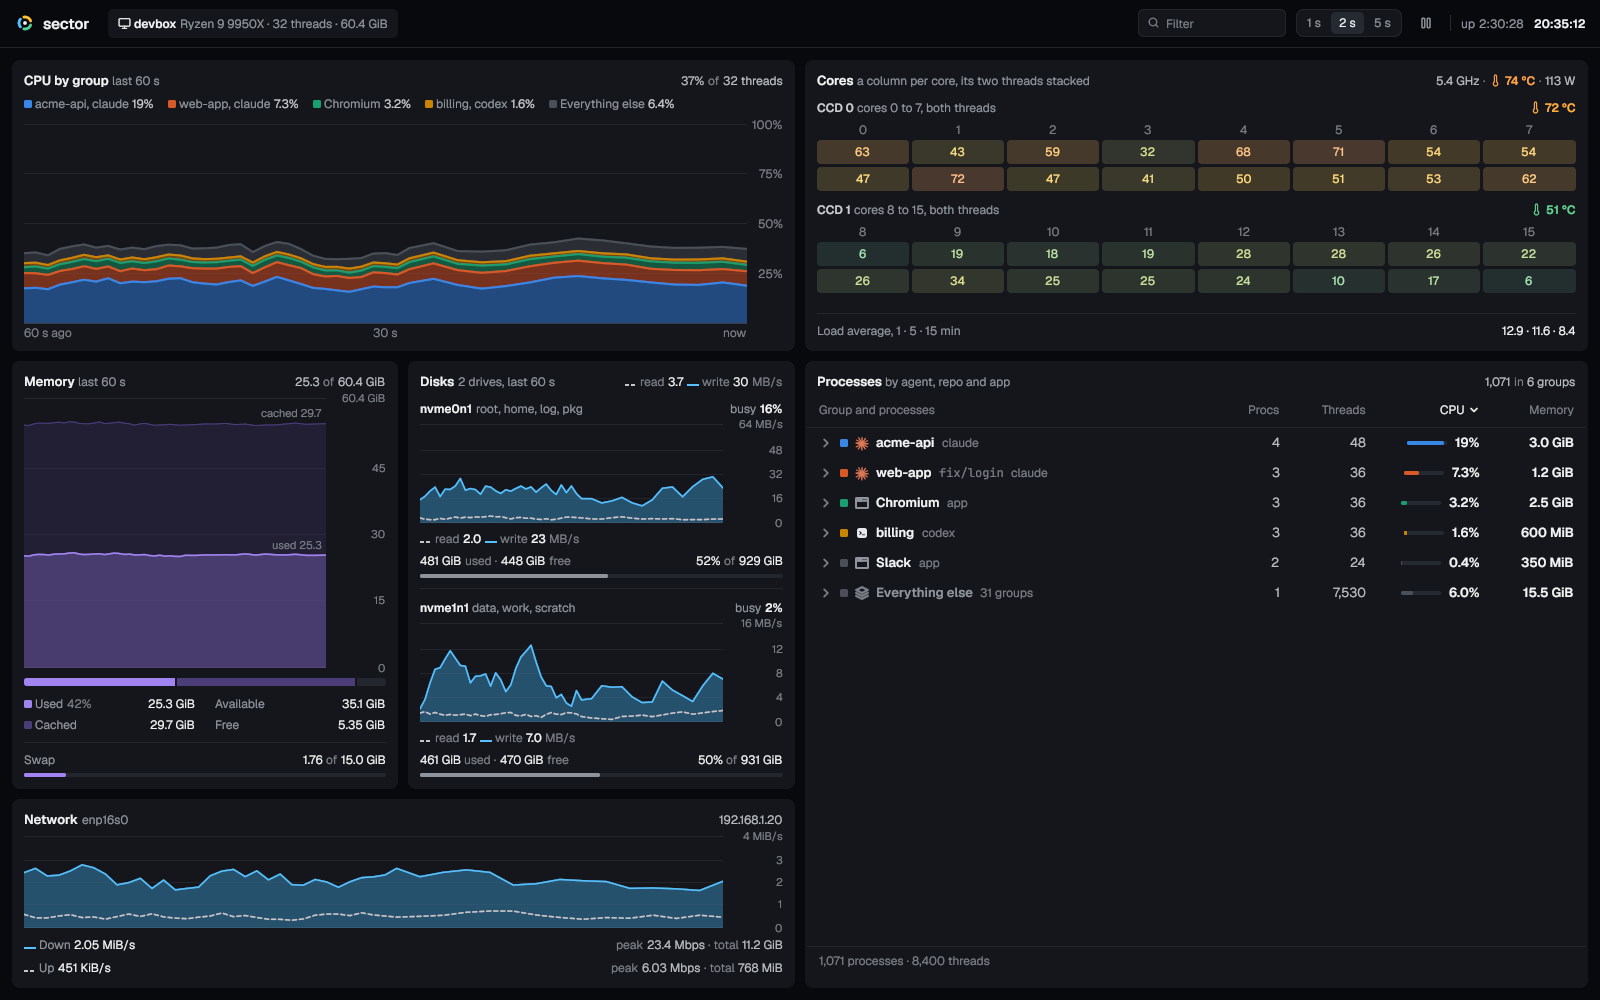
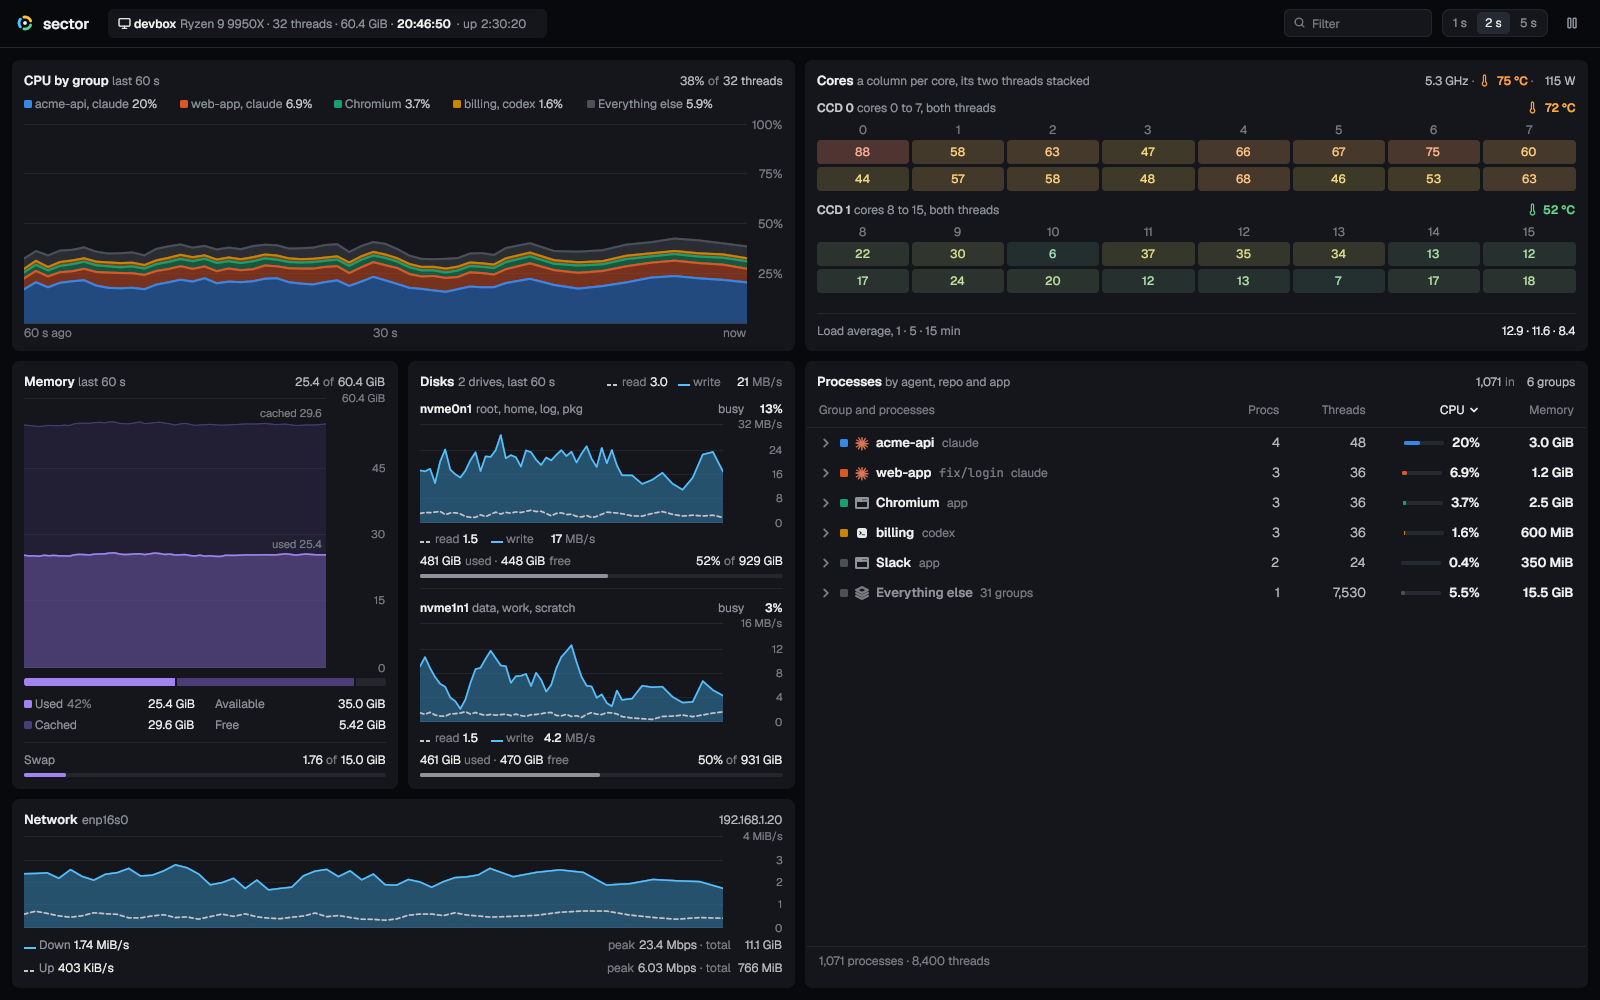
Keep ticking values from pushing the title bar and headers around
The clock and uptime sat in the top-right corner, and their width changed
every second, so the pause, interval and filter controls beside them
shifted. They now ride in the host chip, the uptime last so a growing day
count lands in the chip's padding. A span can take a slot, a template of
its widest form measured with each digit set to the widest digit, since
Geist's digits differ in width. Values that sit mid-row in a header take
one, so a change in their width moves nothing next to them. The README
screenshot shows the new title bar.

diff --git a/view/titlebar.go b/view/titlebar.go
@@ -4,6 +4,7 @@ import (
 	"fmt"
 	"image"
 	"image/color"
+	"strings"
 	"time"
 
 	"gioui.org/font"
@@ -16,8 +17,8 @@ import (
 	"github.com/quanticstudios/sector/theme"
 )
 
-// titleBar draws the mark, the host chip and the tools: filter, interval,
-// pause, uptime and clock. It returns its size.
+// titleBar draws the mark, the host chip with the clock and uptime, and the
+// tools: filter, interval and pause. It returns its size.
 func (v *View) titleBar(gtx layout.Context, now time.Time) layout.Dimensions {
 	th := v.th
 	for i := range v.seg {
@@ -43,6 +44,10 @@ func (v *View) titleBar(gtx layout.Context, now time.Time) layout.Dimensions {
 	if host.Model == "" {
 		detail = ""
 	}
+	up := host.Uptime
+	if !v.last.Time.IsZero() && up > 0 {
+		up += now.Sub(v.last.Time)
+	}
 	sp := layout.Spacer{Width: 10}
 	children := []layout.FlexChild{
 		layout.Rigid(func(gtx layout.Context) layout.Dimensions {
@@ -58,7 +63,7 @@ func (v *View) titleBar(gtx layout.Context, now time.Time) layout.Dimensions {
 			if host.Name == "" {
 				return layout.Dimensions{}
 			}
-			return v.chip(gtx, host.Name, detail, roomy)
+			return v.chip(gtx, host.Name, detail, roomy, now, up)
 		}),
 		layout.Flexed(1, func(gtx layout.Context) layout.Dimensions { return layout.Dimensions{Size: gtx.Constraints.Min} }),
 		layout.Rigid(func(gtx layout.Context) layout.Dimensions {
@@ -73,25 +78,6 @@ func (v *View) titleBar(gtx layout.Context, now time.Time) layout.Dimensions {
 		children = append(children, layout.Rigid(sp.Layout), layout.Rigid(v.segmented))
 	}
 	children = append(children, layout.Rigid(sp.Layout), layout.Rigid(v.pauseButton))
-	if !tiny {
-		children = append(children, layout.Rigid(sp.Layout), layout.Rigid(func(gtx layout.Context) layout.Dimensions {
-			s := image.Pt(gtx.Dp(1), gtx.Dp(16))
-			rect(gtx, image.Rectangle{Max: s}, 0, cStrong)
-			return layout.Dimensions{Size: s}
-		}))
-	}
-	up := host.Uptime
-	if !v.last.Time.IsZero() && up > 0 {
-		up += now.Sub(v.last.Time)
-	}
-	children = append(children,
-		layout.Rigid(sp.Layout),
-		layout.Rigid(func(gtx layout.Context) layout.Dimensions {
-			return v.rich(gtx, theme.Size12, span{s: "up", c: th.Muted}, span{s: uptimeStr(up), c: th.Muted})
-		}),
-		layout.Rigid(sp.Layout),
-		layout.Rigid(v.text(theme.Size12, font.SemiBold, th.Fg, now.Format("15:04:05"))),
-	)
 	layout.W.Layout(gtx, func(gtx layout.Context) layout.Dimensions {
 		gtx.Constraints.Min = image.Pt(gtx.Constraints.Max.X, 0)
 		return layout.Flex{Alignment: layout.Middle}.Layout(gtx, children...)
@@ -99,8 +85,11 @@ func (v *View) titleBar(gtx layout.Context, now time.Time) layout.Dimensions {
 	return layout.Dimensions{Size: image.Pt(w, h)}
 }
 
-// chip is the host: monitor icon, name, and the CPU and memory when roomy.
-func (v *View) chip(gtx layout.Context, name, detail string, roomy bool) layout.Dimensions {
+// chip is the host: monitor icon, name, the CPU and memory when roomy, then
+// the clock and uptime. Those two tick, so each takes a slot as wide as its
+// widest form, and the uptime comes last, where the chip's padding absorbs
+// a day count growing.
+func (v *View) chip(gtx layout.Context, name, detail string, roomy bool, now time.Time, up time.Duration) layout.Dimensions {
 	th := v.th
 	return v.boxed(gtx, gtx.Dp(6), gtx.Dp(10), gtx.Dp(6), th.Surface, func(gtx layout.Context) layout.Dimensions {
 		spans := []span{
@@ -114,6 +103,14 @@ func (v *View) chip(gtx layout.Context, name, detail string, roomy bool) layout.
 		if roomy && detail != "" {
 			spans = append(spans, span{s: detail, c: th.Muted})
 		}
+		ups := uptimeStr(up)
+		upSlot := "88:88:88"
+		if i := strings.IndexByte(ups, 'd'); i >= 0 {
+			upSlot = ups[:i+2] + upSlot
+		}
+		spans = append(spans, span{s: "·", c: th.Muted},
+			span{s: now.Format("15:04:05"), c: th.Fg, w: font.SemiBold, slot: "88:88:88"},
+			span{s: "·", c: th.Muted}, span{s: "up", c: th.Muted}, span{s: ups, c: th.Muted, slot: upSlot})
 		return v.rich(gtx, theme.Size12, spans...)
 	})
 }

diff --git a/view/draw.go b/view/draw.go
@@ -5,6 +5,7 @@ import (
 	"image/color"
 	"math"
 	"slices"
+	"strings"
 
 	"gioui.org/f32"
 	"gioui.org/font"
@@ -20,7 +21,6 @@ import (
 // Colors the concept uses beyond the theme's tokens.
 var (
 	cTrack    = theme.Hex("#23262d") // empty part of a bar
-	cStrong   = theme.Hex("#292a2d") // the title bar's separator
 	cSoft     = theme.Hex("#b8bcc3") // numbers in a card header
 	cDim      = theme.Hex("#c9ccd2") // legend numbers, die names
 	cGridLine = theme.Hex("#22252c")
@@ -42,6 +42,12 @@ type span struct {
 	w    font.Weight
 	size unit.Sp // 0 for the row's size
 	mark layout.Widget
+	// slot is the widest form of a value that changes every tick, like
+	// "88:88:88". The span takes that much width whatever its text, so it
+	// never pushes its neighbors. The text sits at the slot's left, or
+	// at its right when right is set.
+	slot  string
+	right bool
 }
 
 // rich lays spans side by side on one baseline, a space apart.
@@ -57,10 +63,41 @@ func (v *View) rich(gtx layout.Context, size unit.Sp, spans ...span) layout.Dime
 			if sz == 0 {
 				sz = size
 			}
-			return v.th.Label(gtx, sz, s.w, s.c, s.s)
+			if s.slot == "" {
+				return v.th.Label(gtx, sz, s.w, s.c, s.s)
+			}
+			m := op.Record(gtx.Ops)
+			d := v.th.Label(gtx, sz, s.w, s.c, s.s)
+			call := m.Stop()
+			sw := v.slotWidth(gtx, sz, s.w, s.slot)
+			if s.right && d.Size.X < sw {
+				defer op.Offset(image.Pt(sw-d.Size.X, 0)).Push(gtx.Ops).Pop()
+			}
+			call.Add(gtx.Ops)
+			d.Size.X = max(d.Size.X, sw)
+			return d
 		})
 	}
 	return layout.Flex{Alignment: layout.Baseline, Gap: gtx.Sp(size) / 4}.Layout(gtx, children...)
+}
+
+// slotWidth is the width of tmpl with its digits set to whichever digit
+// makes it widest, since digits need not share one width.
+func (v *View) slotWidth(gtx layout.Context, size unit.Sp, w font.Weight, tmpl string) int {
+	gtx.Constraints = layout.Constraints{Max: image.Pt(big, big)}
+	widest := 0
+	for d := '0'; d <= '9'; d++ {
+		s := strings.Map(func(r rune) rune {
+			if r >= '0' && r <= '9' {
+				return d
+			}
+			return r
+		}, tmpl)
+		m := op.Record(gtx.Ops)
+		widest = max(widest, v.th.Label(gtx, size, w, color.NRGBA{}, s).Size.X)
+		m.Stop()
+	}
+	return widest
 }
 
 // text is one label as a widget.

diff --git a/view/lower.go b/view/lower.go
@@ -306,8 +306,8 @@ func (v *View) ioPair(r, w string, strong bool) []span {
 		wt = font.Medium
 	}
 	return []span{
-		{mark: ioMark(cIOOut, true)}, {s: "read", c: th.TextQuiet}, {s: r, c: th.Fg, w: wt},
-		{mark: ioMark(th.Blue, false)}, {s: "write", c: th.TextQuiet}, {s: w, c: th.Fg, w: wt}, {s: "MB/s", c: th.TextQuiet},
+		{mark: ioMark(cIOOut, true)}, {s: "read", c: th.TextQuiet}, {s: r, c: th.Fg, w: wt, slot: "888"},
+		{mark: ioMark(th.Blue, false)}, {s: "write", c: th.TextQuiet}, {s: w, c: th.Fg, w: wt, slot: "888", right: true}, {s: "MB/s", c: th.TextQuiet},
 	}
 }
 
@@ -358,7 +358,7 @@ func (v *View) drive(gtx layout.Context, d sample.Drive) []part {
 	top := diskTop(h, d.Name)
 	head := func(gtx layout.Context) layout.Dimensions {
 		busy := func(gtx layout.Context) layout.Dimensions {
-			return v.rich(gtx, theme.Size12, span{s: "busy", c: th.Muted}, span{s: strconv.Itoa(int(math.Round(d.Busy*100))) + "%", c: th.Fg, w: font.SemiBold})
+			return v.rich(gtx, theme.Size12, span{s: "busy", c: th.Muted}, span{s: strconv.Itoa(int(math.Round(d.Busy*100))) + "%", c: th.Fg, w: font.SemiBold, slot: "888%", right: true})
 		}
 		mounts := mountNames(d.Mounts)
 		if narrow(gtx) || mounts == "" {
@@ -416,7 +416,7 @@ func (v *View) netCard(gtx layout.Context) layout.Dimensions {
 				return v.rich(gtx, theme.Size12, left...)
 			}
 			return v.kv(left, span{s: "peak", c: th.TextQuiet}, span{s: bitsStr(peak), c: cSoft},
-				span{s: "· total", c: th.TextQuiet}, span{s: bytesStr(float64(total)), c: cSoft})(gtx)
+				span{s: "· total", c: th.TextQuiet}, span{s: bytesStr(float64(total)), c: cSoft, slot: "888 MiB", right: true})(gtx)
 		}
 	}
 	return v.card(gtx, func(gtx layout.Context) layout.Dimensions {

diff --git a/view/view_test.go b/view/view_test.go
@@ -1,12 +1,33 @@
 package view
 
 import (
+	"image"
 	"testing"
 	"time"
+
+	"gioui.org/layout"
+	"gioui.org/op"
+	"gioui.org/unit"
+
+	"github.com/quanticstudios/sector/theme"
 )
 
 func TestNewSamplesEveryTwoSeconds(t *testing.T) {
 	if got := New(nil).Interval(); got != 2*time.Second {
 		t.Fatalf("default interval %v, want 2s", got)
+	}
+}
+
+func TestSlotKeepsRowWidth(t *testing.T) {
+	v := New(theme.Dark())
+	gtx := layout.Context{Ops: new(op.Ops), Metric: unit.Metric{PxPerDp: 1, PxPerSp: 1}, Constraints: layout.Constraints{Max: image.Pt(1000, 100)}}
+	row := func(val string) int {
+		return v.rich(gtx, theme.Size12, span{s: "up"}, span{s: val, slot: "88:88:88"}, span{s: "·"}, span{s: "20:35:12"}).Size.X
+	}
+	if a, b := row("1:00:00"), row("23:59:58"); a != b {
+		t.Fatalf("row is %d px wide at 1:00:00 and %d at 23:59:58", a, b)
+	}
+	if a, b := row("23:59:58"), row("11:11:11"); a != b {
+		t.Fatalf("row is %d px wide at 23:59:58 and %d at 11:11:11", a, b)
 	}
 }

diff --git a/view/cores.go b/view/cores.go
@@ -63,7 +63,7 @@ func (v *View) coresCard(gtx layout.Context) layout.Dimensions {
 		if len(right) > 0 {
 			right = append(right, span{s: "·", c: th.TextQuiet})
 		}
-		right = append(right, span{s: fmt.Sprintf("%.0f W", cpu.PowerW), c: cSoft})
+		right = append(right, span{s: fmt.Sprintf("%.0f W", cpu.PowerW), c: cSoft, slot: "888 W", right: true})
 	}
 	ds := dies(cpu)
 	smt := 0
@@ -123,7 +123,7 @@ func (v *View) temp(c float64) []span {
 		d := icon(gtx, icThermo, gtx.Dp(13), col)
 		d.Baseline = gtx.Dp(2)
 		return d
-	}}, {s: fmt.Sprintf("%.0f °C", c), c: col, w: font.SemiBold}}
+	}}, {s: fmt.Sprintf("%.0f °C", c), c: col, w: font.SemiBold, slot: "88 °C", right: true}}
 }
 
 // chipCols is how many cores a chip map row holds, and chipLines how many

diff --git a/view/view.go b/view/view.go
@@ -233,7 +233,7 @@ func (v *View) head(title, sub string, right ...span) layout.Widget {
 func (v *View) procsCard(gtx layout.Context) layout.Dimensions {
 	t := v.table
 	head := v.head("Processes", "by agent, repo and app",
-		span{s: commas(t.Procs), c: cSoft}, span{s: "in", c: v.th.TextQuiet}, span{s: commas(len(t.Groups)) + " groups", c: cSoft})
+		span{s: commas(t.Procs), c: cSoft}, span{s: "in", c: v.th.TextQuiet}, span{s: commas(len(t.Groups)) + " groups", c: cSoft, slot: "88 groups", right: true})
 	if v.measuring {
 		return v.card(gtx, head)
 	}

diff --git a/view/cpu.go b/view/cpu.go
@@ -111,7 +111,7 @@ func (v *View) cpuCard(gtx layout.Context) layout.Dimensions {
 				now = b.vals[len(b.vals)-1]
 			}
 			items[i] = func(gtx layout.Context) layout.Dimensions {
-				return v.rich(gtx, theme.Size12, span{mark: swatch(b.c)}, span{s: b.name, c: th.Muted}, span{s: ppFormatPct(cpuPct(now, threads)) + "%", c: cDim})
+				return v.rich(gtx, theme.Size12, span{mark: swatch(b.c)}, span{s: b.name, c: th.Muted}, span{s: ppFormatPct(cpuPct(now, threads)) + "%", c: cDim, slot: "888%"})
 			}
 		}
 		return flow(gtx, gtx.Dp(14), gtx.Dp(4), items)
